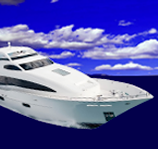
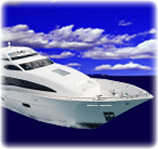
замена спрайтов

Changed region(s): [[0.0, 0.0, 1.0, 1.0]]

diff --git a/public/games/lifeOfLuxury2/desktop.end.js b/public/games/lifeOfLuxury2/desktop.end.js
@@ -240,9 +240,9 @@
         game.load.audio('forcedStop', needUrlPath + '/sounds/forcedStop.mp3' + part2Url);
         game.load.audio('spinSound1f', needUrlPath + '/sounds/spinreels/1f.mp3' + part2Url);
         game.load.audio('spinSound2f', needUrlPath + '/sounds/spinreels/2f.mp3' + part2Url);
-        game.load.spritesheet('bri_anim', '' + path + '/img/bri_anim.png' + part2Url, 158, 149, 13);
-        game.load.spritesheet('car_anim', '' + path + '/img/car_anim.png' + part2Url, 158, 149, 5);
-        game.load.spritesheet('kater_anim', '' + path + '/img/kater_anim.png' + part2Url, 158, 149, 5);
+        game.load.spritesheet('bri_anim', '' + path + '/img/bri_anim.png' + part2Url, 160, 151, 13);
+        game.load.spritesheet('car_anim', '' + path + '/img/car_anim.png' + part2Url, 160, 151, 5);
+        game.load.spritesheet('kater_anim', '' + path + '/img/kater_anim.png' + part2Url, 160, 151, 4);
         game.load.spritesheet('plane_anim', '' + path + '/img/plane_anim.png' + part2Url, 158, 149, 7);
         game.load.spritesheet('bri_anim_1', '' + path + '/img/bri_anim_1_x5.png' + part2Url, 564, 373, 5); //удалить
         game.load.spritesheet('bri_anim_2', '' + path + '/img/bri_anim_2_x4.png' + part2Url, 564, 373, 4);

diff --git a/public/games/lifeOfLuxury2/index.html b/public/games/lifeOfLuxury2/index.html
@@ -24,11 +24,11 @@
     <script src="jquery-3.0.0.js"></script>
     <script src="offline.min.js"></script>
     <script src="jquery.touchhold.js"></script>
-    <script src="desktop.game1.js?v=1.93"></script>
-    <script src="desktop.game2.js?v=1.53"></script>
-    <script src="functions.js?v=2.23"></script>
+    <script src="desktop.game1.js?v=1.94"></script>
+    <script src="desktop.game2.js?v=1.54"></script>
+    <script src="functions.js?v=2.24"></script>
     <script src="desktop.begin.js"></script>
-    <script src="desktop.end.js?v=1.63"></script>
+    <script src="desktop.end.js?v=1.64"></script>
     <script src="../../js/autobahn.js"></script>
     <script>
         var iOS = !!navigator.platform && /iPad|iPhone|iPod/.test(navigator.platform);

diff --git a/public/games/lifeOfLuxury2/desktop.game1.js b/public/games/lifeOfLuxury2/desktop.game1.js
@@ -2033,7 +2033,7 @@ function game1() {
                         }
 
                         katerAnimArr[squareArr[wlWinValuesArray[lineflash] - 1][i - 1]].visible = true;
-                        katerAnimArr[squareArr[wlWinValuesArray[lineflash] - 1][i - 1]].animations.add('scatters_anim', [4, 3, 2, 1, 0], 5, false).play().onComplete.add(function () {
+                        katerAnimArr[squareArr[wlWinValuesArray[lineflash] - 1][i - 1]].animations.add('scatters_anim', [3, 2, 1, 0], 4, false).play().onComplete.add(function () {
                             for (var i = 1; i <= 15; ++i) {
                                 katerAnimArr[i].visible = false;
                             }
